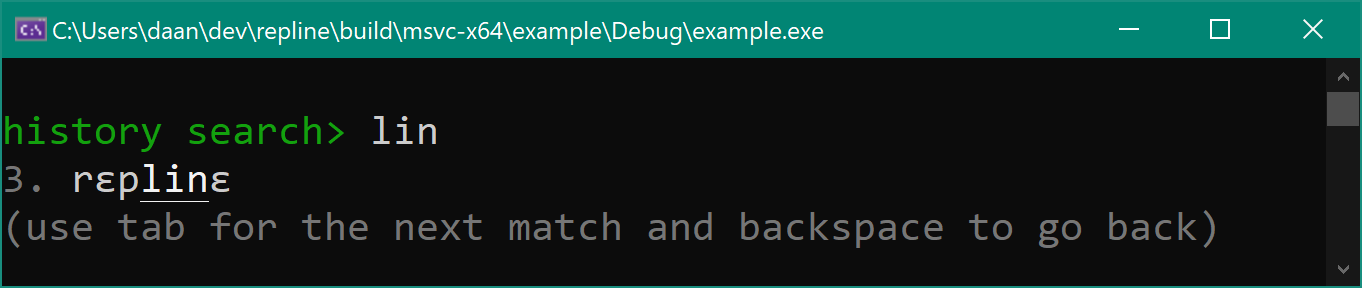
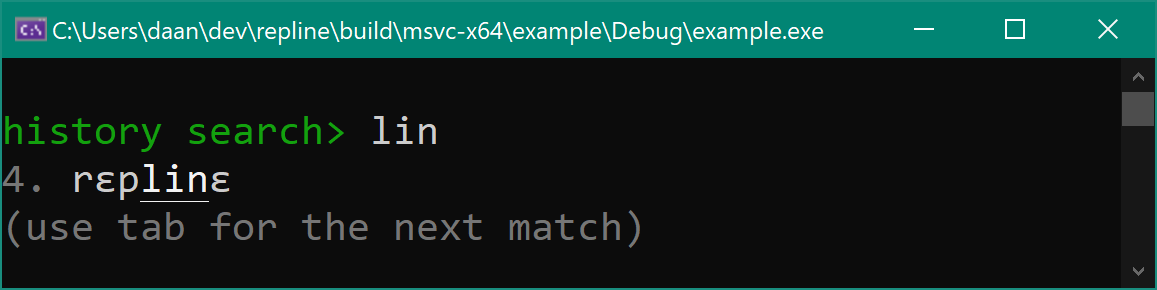
history on windows screenshot

diff --git a/src/editline_history.c b/src/editline_history.c
@@ -139,7 +139,7 @@ again:
     sbuf_append_n( eb->extra, hentry + match_pos, match_len );
     sbuf_appendf(eb->extra, 128, "\x1B[24m\x1B[21m\x1B[%dm", env->color_diminish ); // no underline dark gray
     sbuf_append(eb->extra, hentry + match_pos + match_len );
-    sbuf_appendf(eb->extra, 128, "\x1B[%dm\n(use tab for the next match and backspace to go back)", env->color_info );
+    sbuf_appendf(eb->extra, 128, "\x1B[%dm\n(use tab for the next match)", env->color_info );
     sbuf_append(eb->extra, "\x1B[0m\n" );
   }
   edit_refresh(env, eb);
